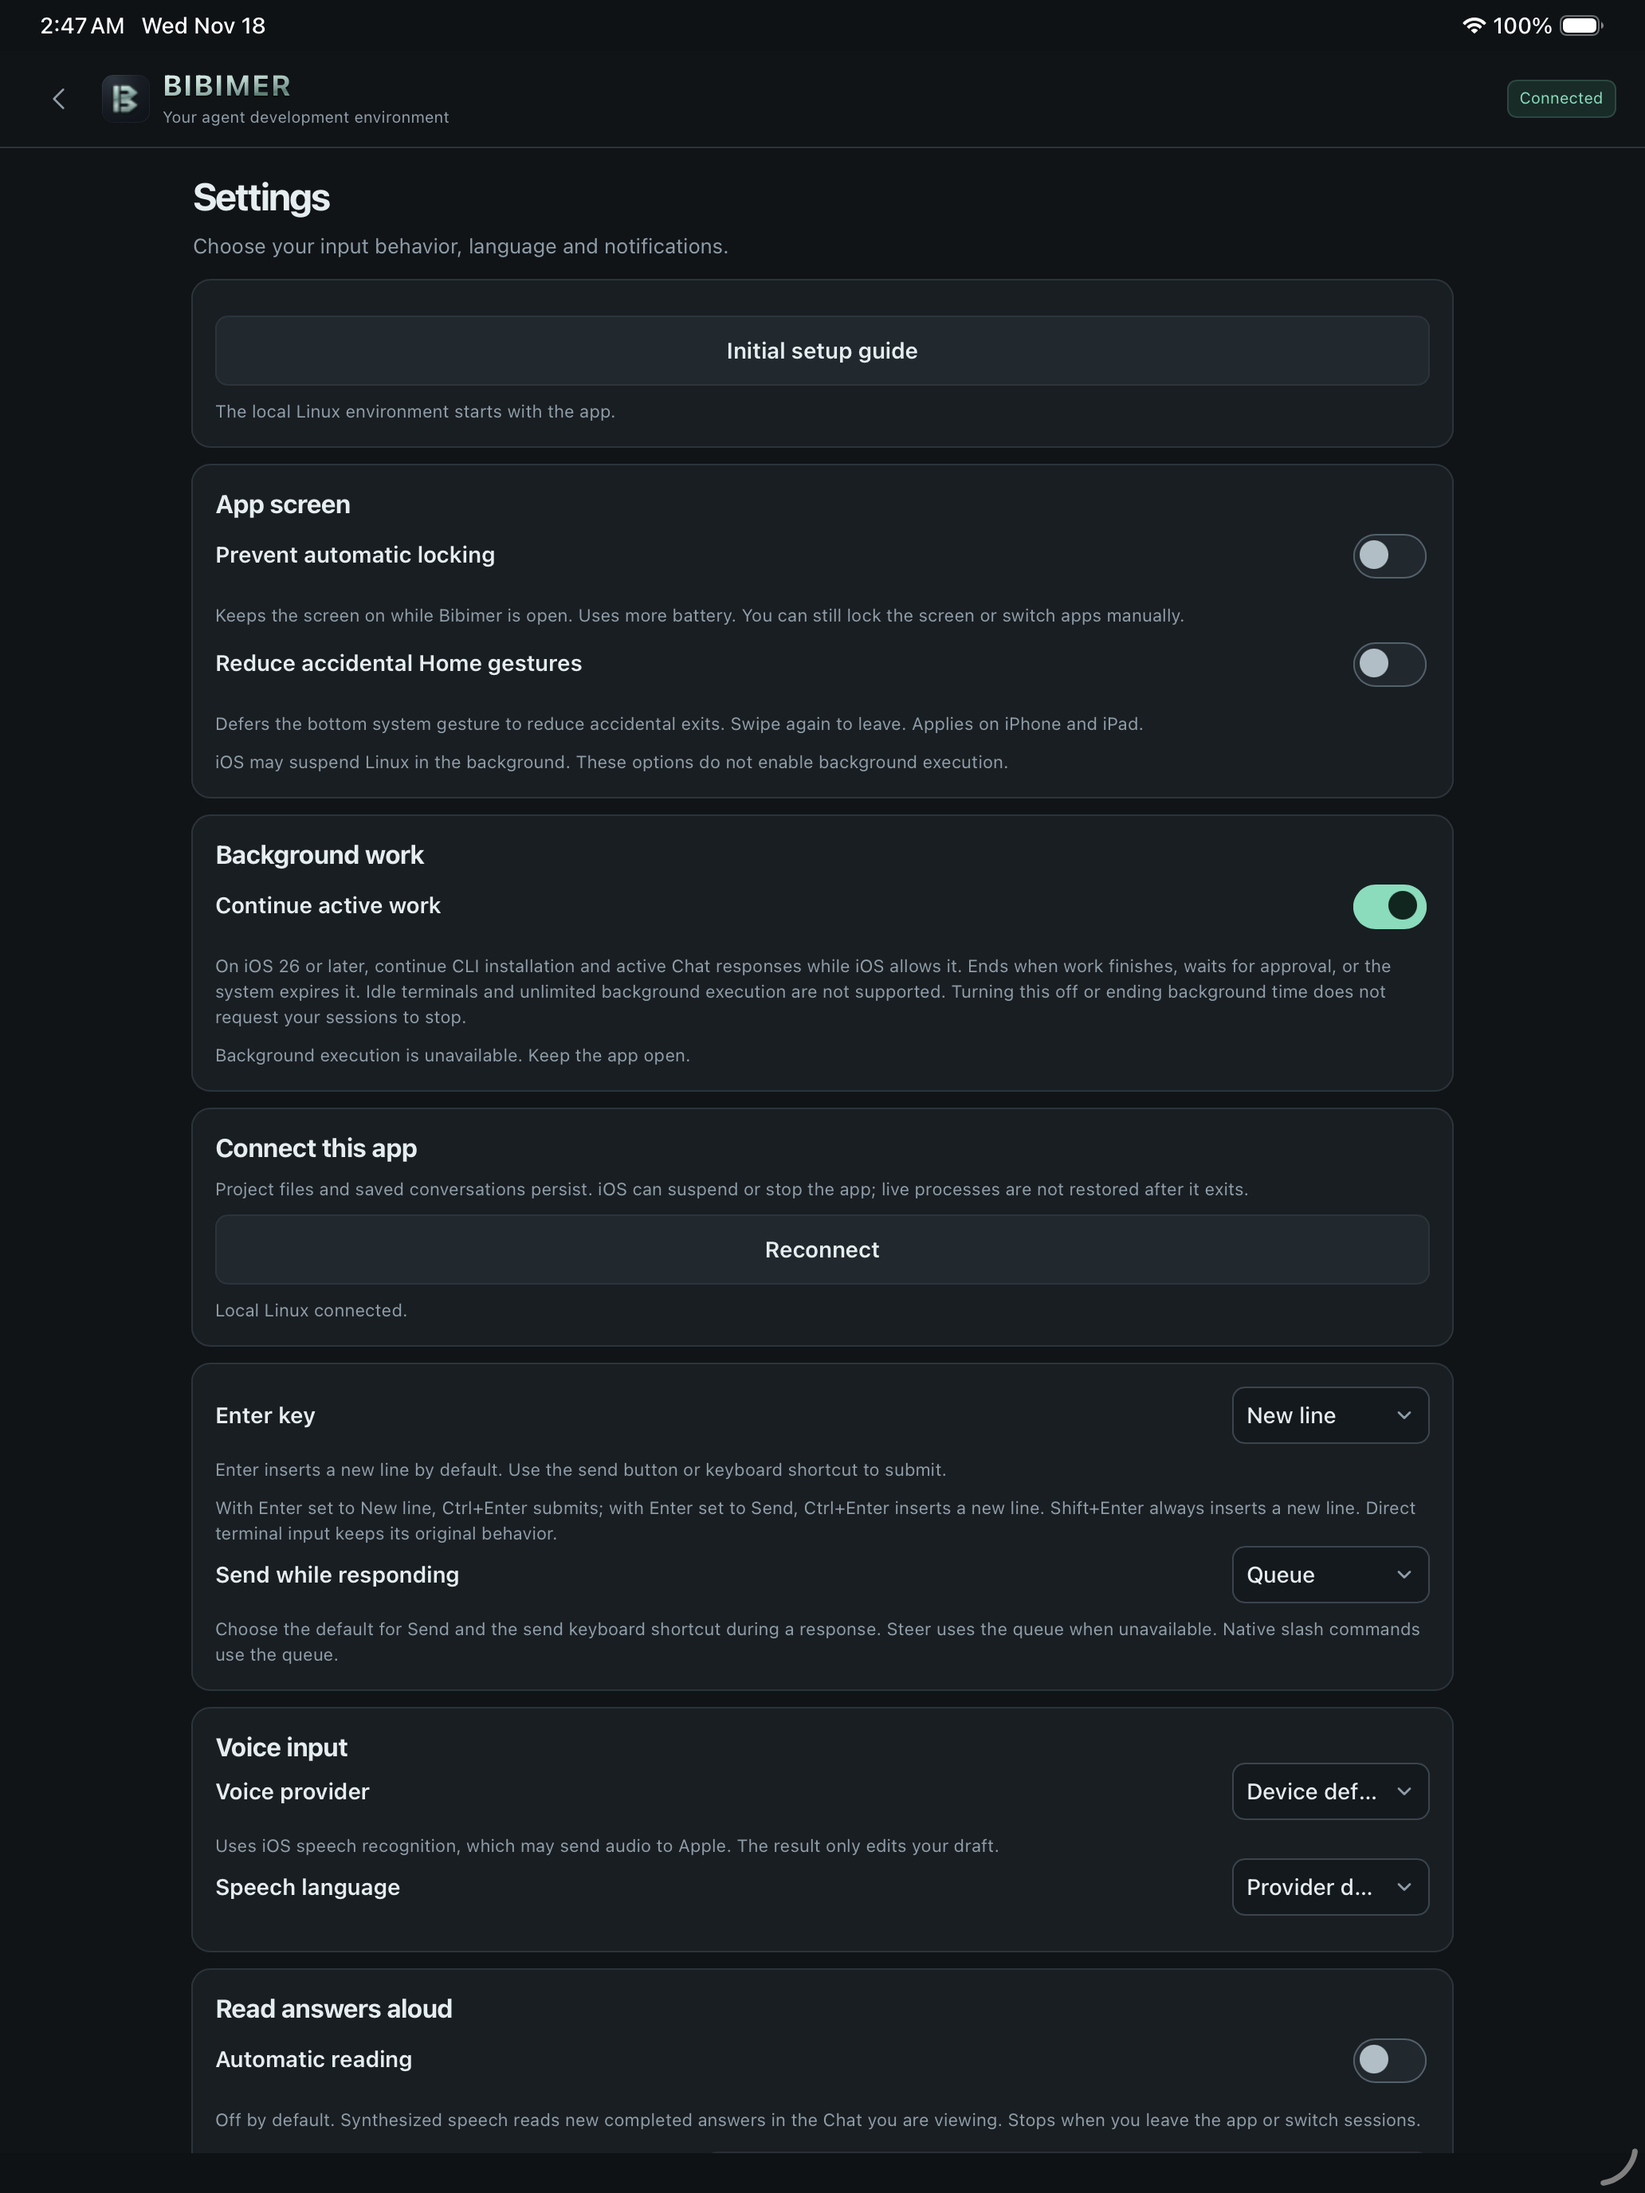
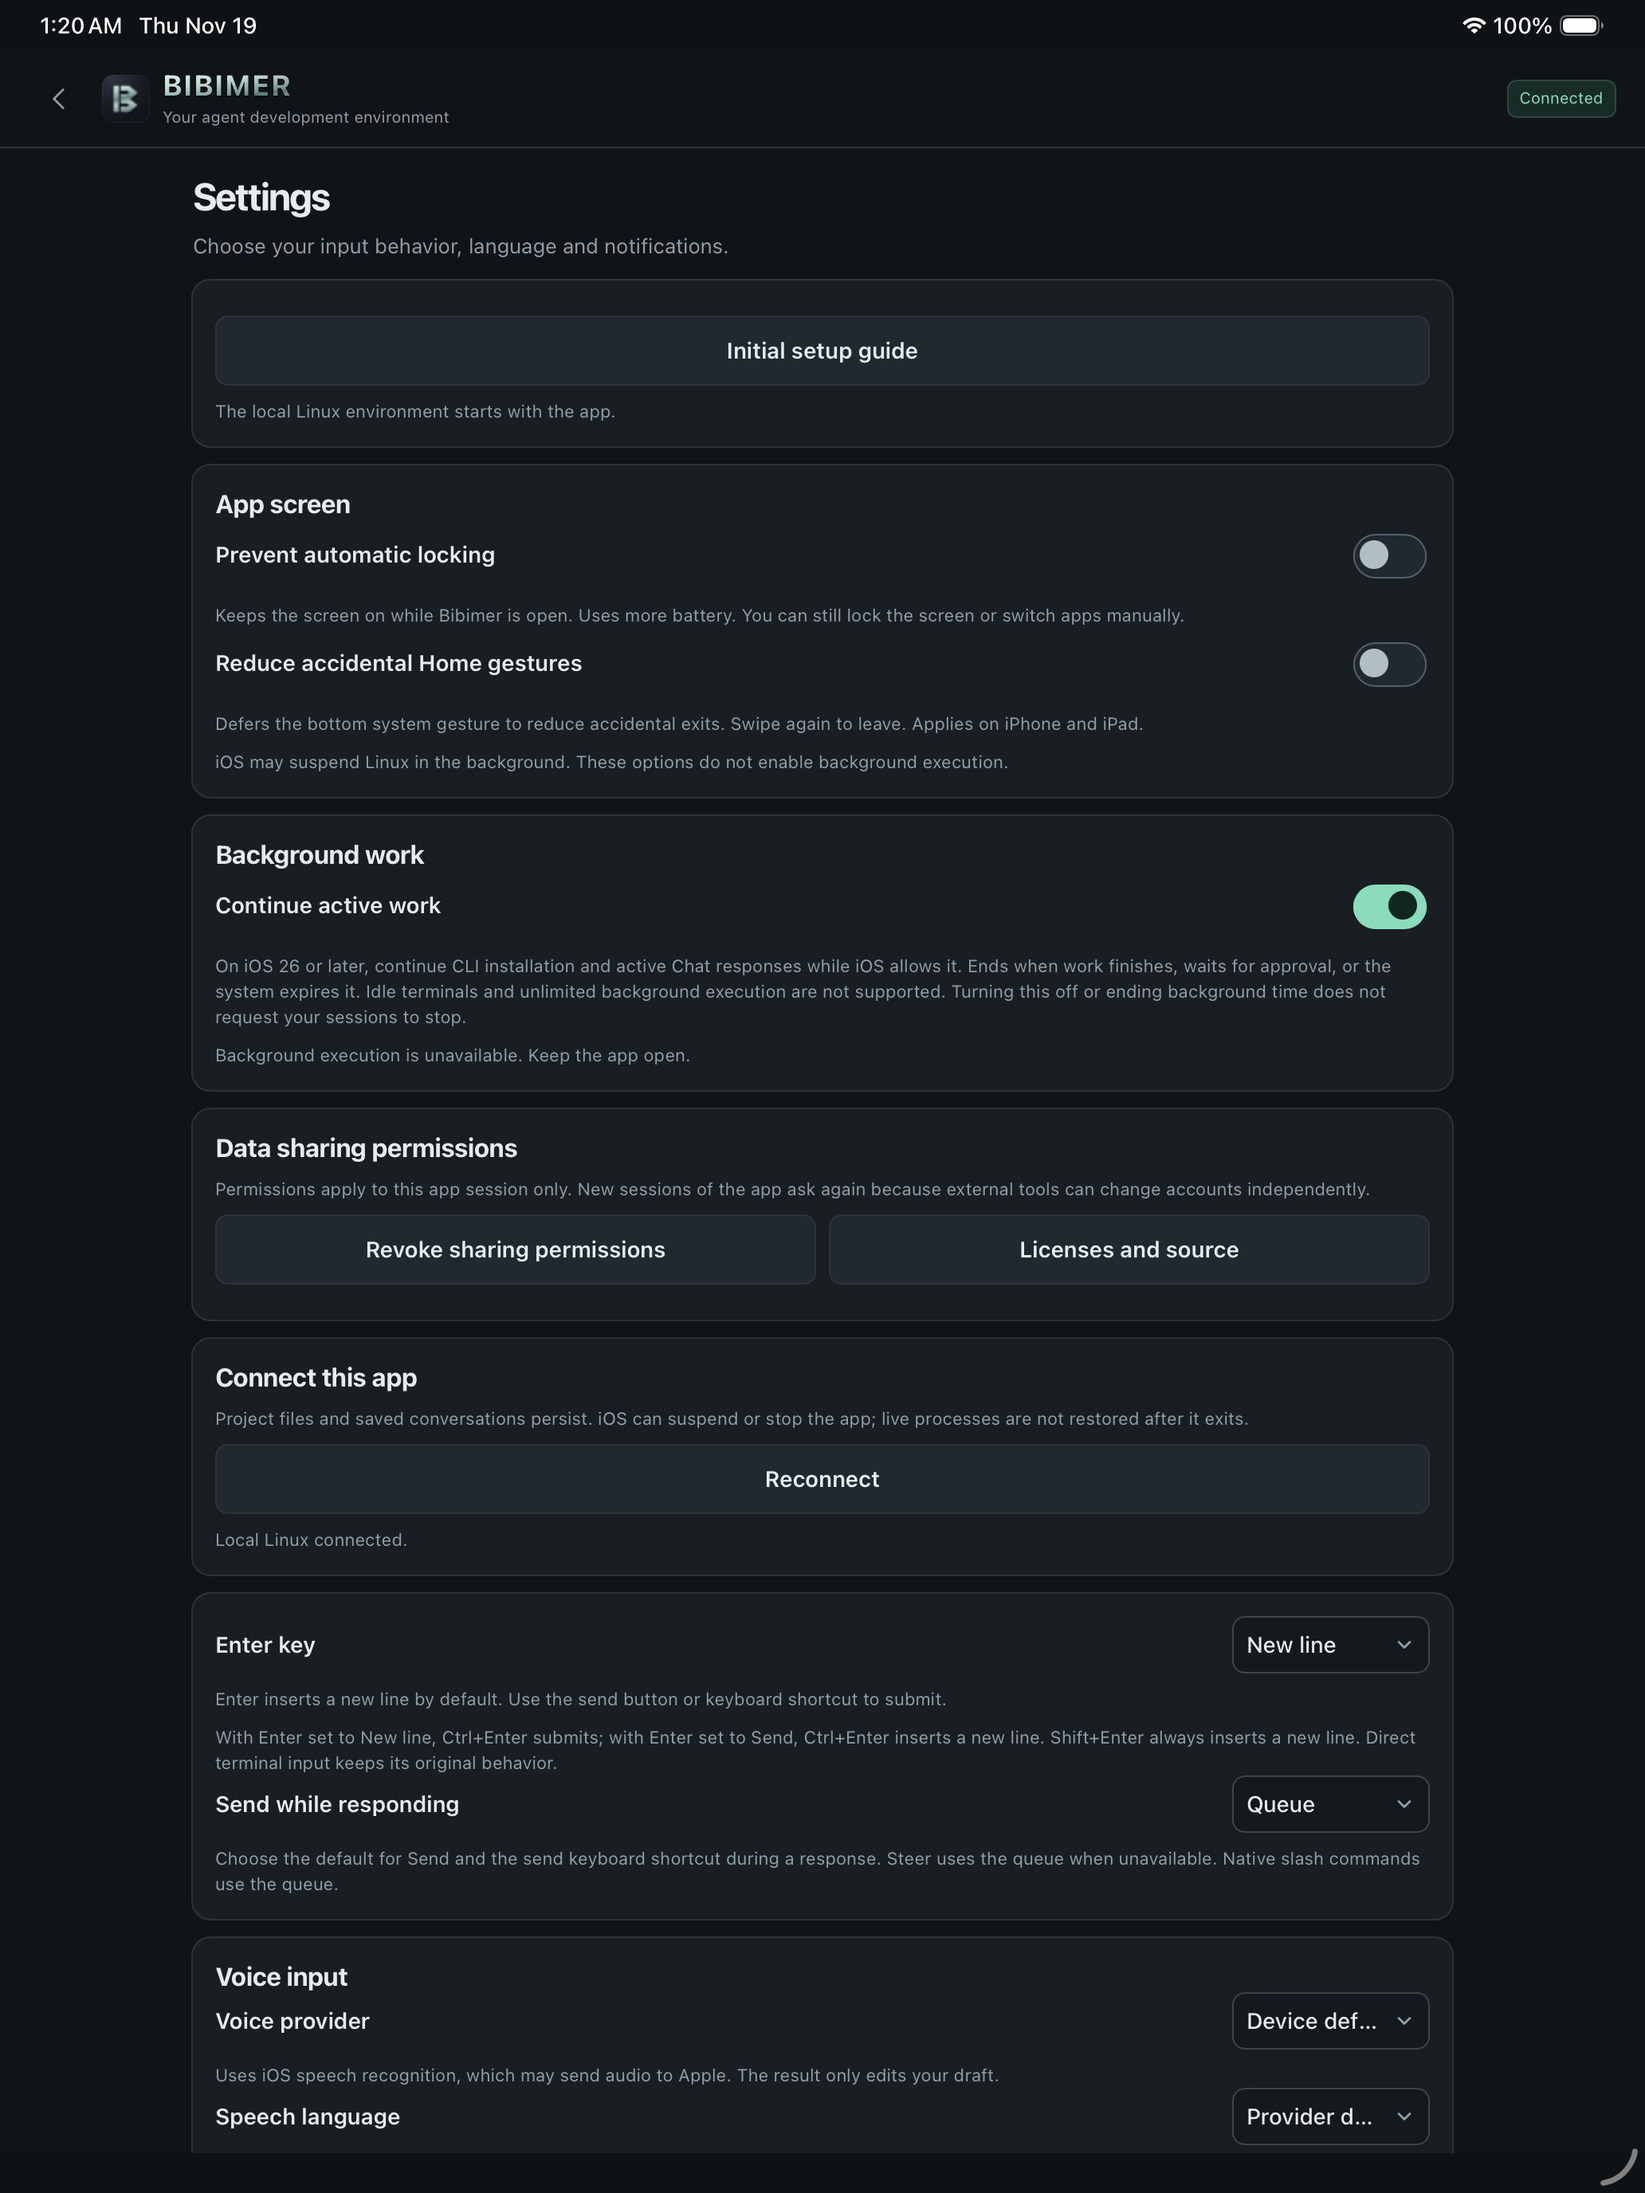
Record candidate16 validation and updated iPad store captures

diff --git a/NEXT_SESSION.md b/NEXT_SESSION.md
@@ -1,5 +1,18 @@
 # Bibimer 다음 세션 시작점
 
+## App Store 제출 승인·진행 중 (2026-11-19)
+
+- 사용자가 남은 준비와 **심사 제출까지 진행**하도록 새로 명시했다. 이전 제출 보류는 이 지시로 해제됐으며 **승인 후 수동 공개** 설정은 유지한다. 제출 성공은 아직 확인하지 않았다.
+- 후보16 소스 `a12d75f`를 커밋·push했다. 자체 전송 동의/취소·철회, 통계 차단, GPL/Alpine 고지, 한국어 파일 도구 모음 수정이 포함된다. 양 SDK·Python앱34/브리지86·Node18파일·실제 WKWebView/Linux34개(45.75초, JS오류0/fatal0/진단실패0, 기존 syscall경고4) 통과. unsigned 아카이브/패키지 소스 일치까지 확인했고 서명·export·업로드는 아직 없다. ASC 선택/마지막 내부 제공은15다.
+- 기존12장 중 변경된 iPad 설정 영한2장을16으로 실제 재촬영·교체하고 새로고침 뒤 각3장과 순서를 확인했다. 나머지10장은15 출처를 보존했다. 실제 iPhone 한국어 파일 도구 모음·AI/터미널 고지/취소, iPad GPL/Alpine 고지도 화면 제어로 확인했다. visual verdict94/pass.
+- 라이선스 결정과 실제 Chat 심사 접근 답변이 필요하다. 결정 뒤 효력 있는 라이선스 패키징/검증→16 서명·업로드·초안 선택→콘텐츠 권한/최종메모→심사 제출 순서다. 새 draft는 `release/app-store/review-notes-16.draft.en.txt`, Console3426자 DRAFT는 유지했다. 사용자 심사 제출 승인은 이미 있으므로 같은 제출 승인을 다시 묻지 않는다.
+- 비공개 증빙: `dist/ios-appstore/submission-nov19/`, `dist/ios-app/submission-1.0.0-16-nov19-smoke/`, `.tools/ios-submission16-*`. 고지 원문에는 upstream 공백/CRLF·Markdown 밑줄이 보존되어 전체 git diff --check의 공백/충돌표식 오탐을 일으킨다. 자체 변경의 check는 통과했고 원문 해시는 provenance로 검증했다.
+- 실제 기능 설문으로 unrestricted web access를 예로 답해 연령16+를 저장했다. 무료 앱 계약·DSA 거래자 상태 활성화를 Console 비즈니스에서 확인했다. 유료 계약 업데이트에는 동의하지 않았다.
+- iOS 개인정보 정책10언어를 배포했다(`https://a65016d8.bibimer.pages.dev`). 운영10개 URL HTTP200·원본 SHA256 일치를 검증했고 Chrome 한국어 페이지도 확인했다. ASC 영한 정책 주소 저장과 App Privacy 4종(사진/비디오·오디오·기타 사용자 콘텐츠·사용자 ID)의 계정 연결/추적 없음 신고 게시를 확인했다.
+- 심사자가 실제 Chat에 접근할 전용 제공자 계정/접근 방법과, iSH GPLv3 의무에 맞춘 Bibimer 소유 iOS 대응 소스 라이선스 부여 선택을 사용자에게 질문했다. 원문 키/비밀번호를 대화에 보내지 않도록 안내했다. GPL 검토안은 `release/app-store/ios-license-proposal.md`; 승인 전 라이선스 효력은 없다.
+- 연결한 물리 iPhone/iPad가 없고 전용 시뮬레이터만 확인됐다. 실기기 검증으로 표시하지 않는다.
+
+
 ## App Store 스크린샷12장 등록·TestFlight15 제공 완료 (2026-11-19)
 
 - 사용자 복구 안내 후 인증된 App Store Connect에 접근했다. **1.0.0(15)**의 표준 암호화(Apple OS 외/병행)·프랑스 미배포 응답을 저장하고 한영 테스트 안내1,836자를 저장했다. 기존 Bibimer Internal 그룹에서 **테스트 중·90일 후 만료·내부 테스터1명·빌드15개**를 직접 확인했다. 재업로드/외부 그룹/새 테스터/공개 링크는 없다.

diff --git a/release/app-store/readiness.md b/release/app-store/readiness.md
@@ -1,6 +1,17 @@
 # App Store 1.0.0 출시 준비
 
-2026-11-18. 사용자 선택: **1.0.0 · 무료 다운로드 · 영어/한국어 등록 · 심사 승인 후 수동 공개**. 제출 자료와 출시 후보를 준비하는 작업이며 심사 제출·공개 완료가 아니다. 후보15는 App Store Connect 업로드·Apple 처리·수출 규정 응답·기존 내부 TestFlight 제공을 완료했다. 영어/한국어 iPhone·iPad 스크린샷12장과 필수 연락처·최신 메모를 저장하고 새로고침 뒤 확인했다. 국가는 중국 본토·프랑스를 제외한173개 지역으로 저장했다.
+2026-11-19 현재: 사용자가 **남은 준비와 심사 제출까지 명시적으로 승인**했다. 승인 후 수동 공개는 유지한다. 이전 보류 기록은 과거 이력이며 현재 제출 승인에 우선하지 않는다. **아직 제출하지 않았다.**
+
+- 완료: 정책10언어 운영 배포/HTTP200·소스해시, ASC 영한 정책 URL·App Privacy4종 게시, 연령16+, 무료 계약·DSA 활성, 연락처 저장, 스크린샷12장(변경된 iPad 설정2장은16번 재촬영/교체/새로고침 검증).
+- 후보16 소스 `a12d75fb2a483c6b4ac19a62ef7198ec26b08e44`: AI/터미널/음성 전송 전 자체 동의와 취소, 동의 철회, 비필수 CLI 통계 차단, GPL/Alpine 고지, 한국어 파일 도구 모음 수정. 양 SDK·앱Python34·브리지86·Node18파일·실제 WKWebView/Linux34항목(45.75초) 통과. JS오류0/fatal0/진단실패0이며 기존 syscall경고4개다. 실제 iPhone/iPad 시뮬레이터 화면에서 한국어 동의·취소·파일 도구 모음과 법적 고지를 확인했다.
+- 로컬 unsigned16 아카이브와 소스→자산 일치를 검증했다(Web71/Guest18/rootfs426/Native18/현지화20, 네이티브 소스17). **서명·export·업로드는 아직 안 됐으며 ASC에는15가 선택되어 있다.** 마지막 내부 제공도15다.
+- 사용자 결정 필요: [iOS GPLv3/추가 허락 검토안](ios-license-proposal.md) 승인과 실제 Chat 심사 접근 방법. 공개 소스만으로 라이선스 부여가 완료된 것으로 취급하지 않는다. 키/비밀번호는 채팅·공개 저장소에 받지 않는다.
+- 결정 뒤: 효력 있는 iOS 라이선스와 대응 소스 안내 패키징 →16 최종검증/서명/업로드/선택/수출 응답 → 콘텐츠 권한·실제 접근 정보를 포함한 심사 메모 확정 → 최종 사전 점검 → 승인된 심사 제출. `review-notes-16.draft.en.txt`는 아직 미제출 원고이며 기존 Console DRAFT를 바꾸지 않았다.
+- 물리 iPhone/iPad는 연결되지 않았고 실제 계정 로그인/모델 호출/음성 제공자 호출은 검증하지 않았다. 시뮬레이터 검사와 실제 기기 검증을 구분한다. 현재 상태는 `verification.json`을 따른다.
+
+아래는 시점별 준비 이력이다.
+
+기존 기록(2026-11-18). 사용자 선택: **1.0.0 · 무료 다운로드 · 영어/한국어 등록 · 심사 승인 후 수동 공개**. 제출 자료와 출시 후보를 준비하는 작업이며 심사 제출·공개 완료가 아니다. 후보15는 App Store Connect 업로드·Apple 처리·수출 규정 응답·기존 내부 TestFlight 제공을 완료했다. 영어/한국어 iPhone·iPad 스크린샷12장과 필수 연락처·최신 메모를 저장하고 새로고침 뒤 확인했다. 국가는 중국 본토·프랑스를 제외한173개 지역으로 저장했다.
 
 ## 후보와 마지막 배포를 구분
 

diff --git a/release/app-store/screenshots/README.md b/release/app-store/screenshots/README.md
@@ -1,3 +1,5 @@
+현재(2026-11-19): 전체12장 등록을 유지하며 iPad 설정 영어·한국어2장을 새16번 소스(`a12d75f`)에서 다시 촬영해 교체했다. 새로고침 후 두 언어의3장/순서를 확인했다. 변경되지 않은10장은15번 출처를 유지한다. manifest의 각 파일 `build`/`sourceCommit`이 기준이다. 모든 JPEG는 실제 Device Hub 캡처의 품질100 변환뿐이며 잘라내기·덧씌우기·UI 변경이 없다. 한국어 파일 도구 모음 겹침은16번에서 수정했고 실제 화면에서 확인했다.
+
 # App Store 화면 자료
 
 2026-11-19: **영어·한국어 iPhone/iPad 각3장, 총12장 Console 등록 완료**다. 서비스 복구 뒤 각 언어/기기에 업로드하고 새로고침 후 파일3개·순서·개별 현지화 등록을 재확인했다. 심사 제출·공개는 사용자 지시로 보류한다.
